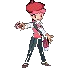
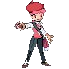
sprites

diff --git a/wiki/view-bosses.jsx b/wiki/view-bosses.jsx
@@ -76,7 +76,7 @@ window.VIEWS = window.VIEWS || {};
       <div style={{ background: 'linear-gradient(160deg, #14100a, #0a0805)', border: `1px solid ${col}33`, borderRadius: 16, padding: 20, marginBottom: 18 }}>
         <div style={{ display: 'flex', alignItems: 'center', justifyContent: 'space-between', gap: 12, flexWrap: 'wrap', marginBottom: 14 }}>
           <div style={{ display: 'flex', alignItems: 'center', gap: 14 }}>
-            <div style={{ width: 72, height: 72, borderRadius: 12, background: `radial-gradient(circle at 50% 40%, ${col}22, #0a0805)`, border: `1px solid ${col}33`, display: 'flex', alignItems: 'flex-end', justifyContent: 'center', overflow: 'hidden', flexShrink: 0 }}>
+            <div style={{ width: 72, height: 72, display: 'flex', alignItems: 'flex-end', justifyContent: 'center', overflow: 'hidden', flexShrink: 0 }}>
               <img src={'trainers/' + b.type + '.png'} alt={b.name}
                 onError={(e) => { if (e.target.src.indexOf('trainers/') !== -1 && b.sprite) { e.target.src = b.sprite; } else { e.target.style.display = 'none'; } }}
                 style={{ maxHeight: 70, maxWidth: 70, imageRendering: 'pixelated', objectFit: 'contain' }} />
